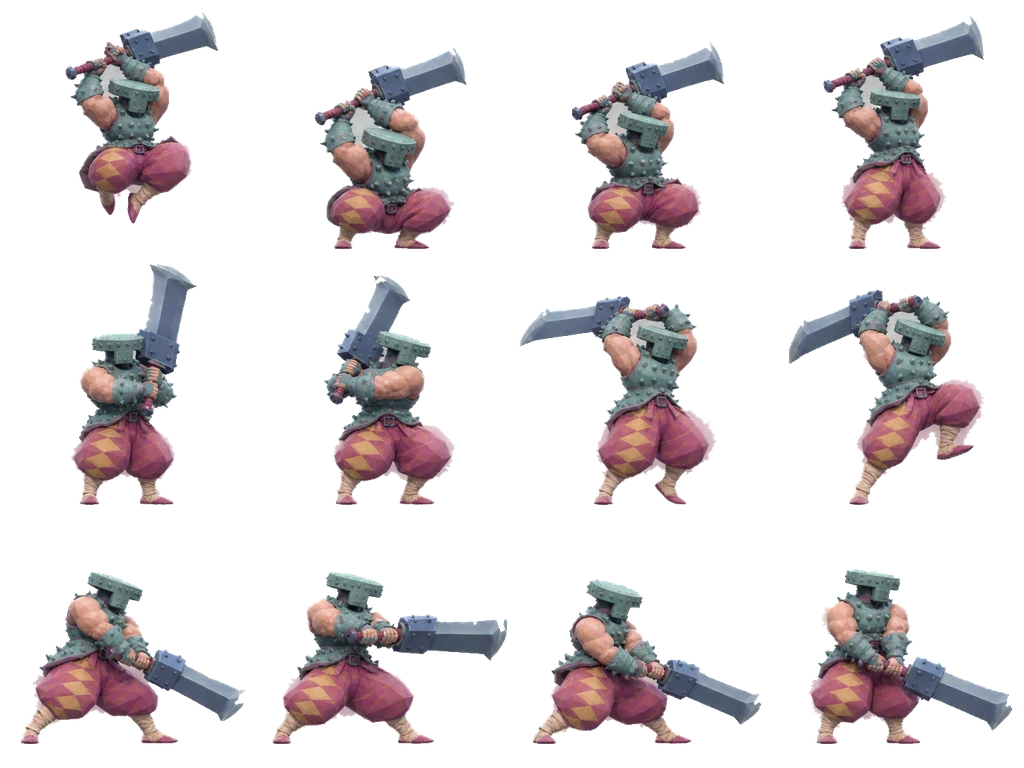
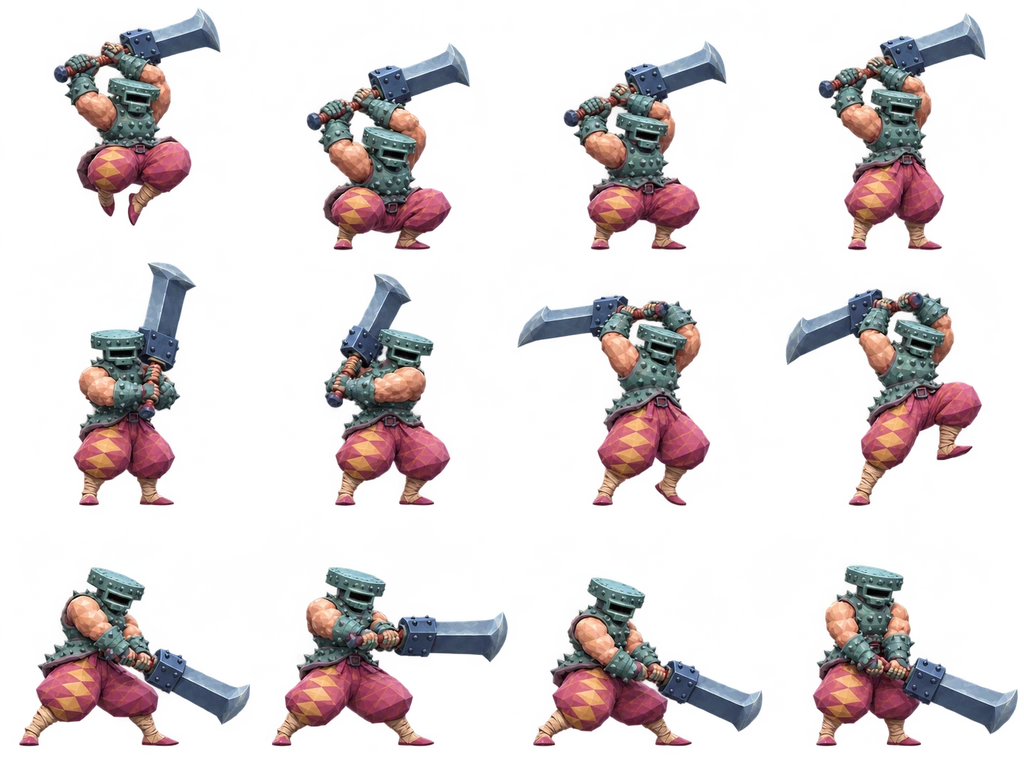
Refine Heizmann visor, sword grip and glacial cleave effects

diff --git a/assets/heizmann.js b/assets/heizmann.js
@@ -1,7 +1,7 @@
 (()=>{
   const image=new Image(),ready=[];
   image.onload=()=>ready.splice(0).forEach(fn=>fn());
-  image.src='./assets/heizmann.webp';
+  image.src='./assets/heizmann.webp?v=158';
   const clamp=x=>Math.max(0,Math.min(1,x)),tau=Math.PI*2;
   const times=[0,.136,.195,.24,.31,.50,.555,.602,.642,.659,.69,.85];
   // Register each stance to the planted boot pair, including the low follow-through.
@@ -49,7 +49,13 @@
         const point=j=>[x+(target.x-x)*j/18,y+(target.y-y)*j/18+Math.sin(j*4.4)*4*Math.sin(Math.PI*j/18)];
         const a=point(i),b=point(Math.min(i+1,18*advance));
         line(g,[a,b],'#274f71',6);line(g,[a,b],'#defaff',2);
-        if(i%3===1)line(g,[a,[a[0]+d*7,a[1]+(i%2?9:-11)]],'#acecff',2);
+        if(i%3===1){
+          const side=i%2?1:-1, extension=clamp(advance*18-i);
+          const fork=[a[0]+d*9*extension,a[1]+side*8*extension];
+          const tip=[fork[0]+d*14*extension,fork[1]+side*5*extension];
+          line(g,[a,fork,tip],'#223e58',4);line(g,[a,fork,tip],'#a7eaff',1.4);
+          line(g,[fork,[fork[0]-d*4*extension,fork[1]+side*7*extension]],'#d8ffff',1);
+        }
       }
     }else if(layer==='actor'){
       const n=times.filter(t=>p>=t).length-1,drop=clamp(p/.136);
@@ -63,9 +69,15 @@
       shards(g,x,y-76,(p-.86)/.14,38,100);
     }else if(layer==='slash'){
       if(p>=.659&&p<.748){
-        const u=(p-.659)/(.748-.659),px=x+(target.x-x)*u,py=y-87+(target.y-88-(y-87))*u;
+        const u=(p-.659)/(.748-.659),px=x+(target.x-x)*u+d*Math.min(100,Math.abs(target.x-x)*.55)*(1-u),py=y-87+(target.y-88-(y-87))*u;
         g.translate(px,py);g.scale(d,1);g.rotate(-.24);
-        g.beginPath();g.moveTo(-18,-58);g.quadraticCurveTo(67,0,-22,58);g.quadraticCurveTo(30,0,-18,-58);g.fillStyle='#80e2ff';g.fill();g.strokeStyle='#efffff';g.lineWidth=2;g.stroke();
+        const ice=g.createLinearGradient(-30,0,30,0);
+        ice.addColorStop(0,'rgba(88,175,239,.16)');ice.addColorStop(.55,'#63baef');ice.addColorStop(.84,'#bdffff');ice.addColorStop(1,'#ffffff');
+        for(let j=0;j<9;j++){
+          const h=(j-4)*11,edge=20-h*h/75;
+          line(g,[[edge-7,h],[edge-22-j%3*8,h+3]],'rgba(174,241,255,.68)',1+j%2);
+        }
+        g.beginPath();g.moveTo(-18,-58);g.quadraticCurveTo(67,0,-22,58);g.quadraticCurveTo(30,0,-18,-58);g.fillStyle=ice;g.fill();g.strokeStyle='#efffff';g.lineWidth=2;g.stroke();
       }else shards(g,target.x,target.y-88,(p-.748)/.14,44,107);
     }g.restore();
   }

diff --git a/index.html b/index.html
@@ -1,1 +1,1 @@
-<!doctype html><html lang="en"><head><meta charset="utf-8"><meta name="viewport" content="width=device-width,initial-scale=1"><title>Wizardry</title><meta http-equiv="refresh" content="0;url=./arena.html?v=0.157.0"><script>location.replace('./arena.html'+location.search+location.hash);</script></head><body><a href="./arena.html?v=0.157.0">Enter Wizardry</a></body></html>
+<!doctype html><html lang="en"><head><meta charset="utf-8"><meta name="viewport" content="width=device-width,initial-scale=1"><title>Wizardry</title><meta http-equiv="refresh" content="0;url=./arena.html?v=0.158.0"><script>location.replace('./arena.html'+location.search+location.hash);</script></head><body><a href="./arena.html?v=0.158.0">Enter Wizardry</a></body></html>

diff --git a/arena.html b/arena.html
@@ -241,9 +241,9 @@
 <script src="./assets/wizard-system-v135.js?v=0.143.0" defer></script>
 <script src="./assets/electrical-charge.js?v=0.151.0" defer></script>
 <script src="./assets/grill-master.js?v=0.153.0" defer></script>
-<script src="./assets/heizmann.js?v=0.157.0" defer></script>
-<script src="./assets/venus-trap.js?v=0.157.0" defer></script>
-<script src="./arena.js?v=0.157.0" defer></script>
+<script src="./assets/heizmann.js?v=0.158.0" defer></script>
+<script src="./assets/venus-trap.js?v=0.158.0" defer></script>
+<script src="./arena.js?v=0.158.0" defer></script>
 <script src="./assets/wizard-home-v135.js?v=0.150.0" defer></script>
 </body>
 </html>

diff --git a/README.md b/README.md
@@ -1,6 +1,6 @@
 # Wizardry
 
-Play the current 2.5D game at https://wafflinyo.github.io/Wizardry/arena.html?v=0.157.0.
+Play the current 2.5D game at https://wafflinyo.github.io/Wizardry/arena.html?v=0.158.0.
 
 The original duel has been retired. `index.html` opens the current game.
 
